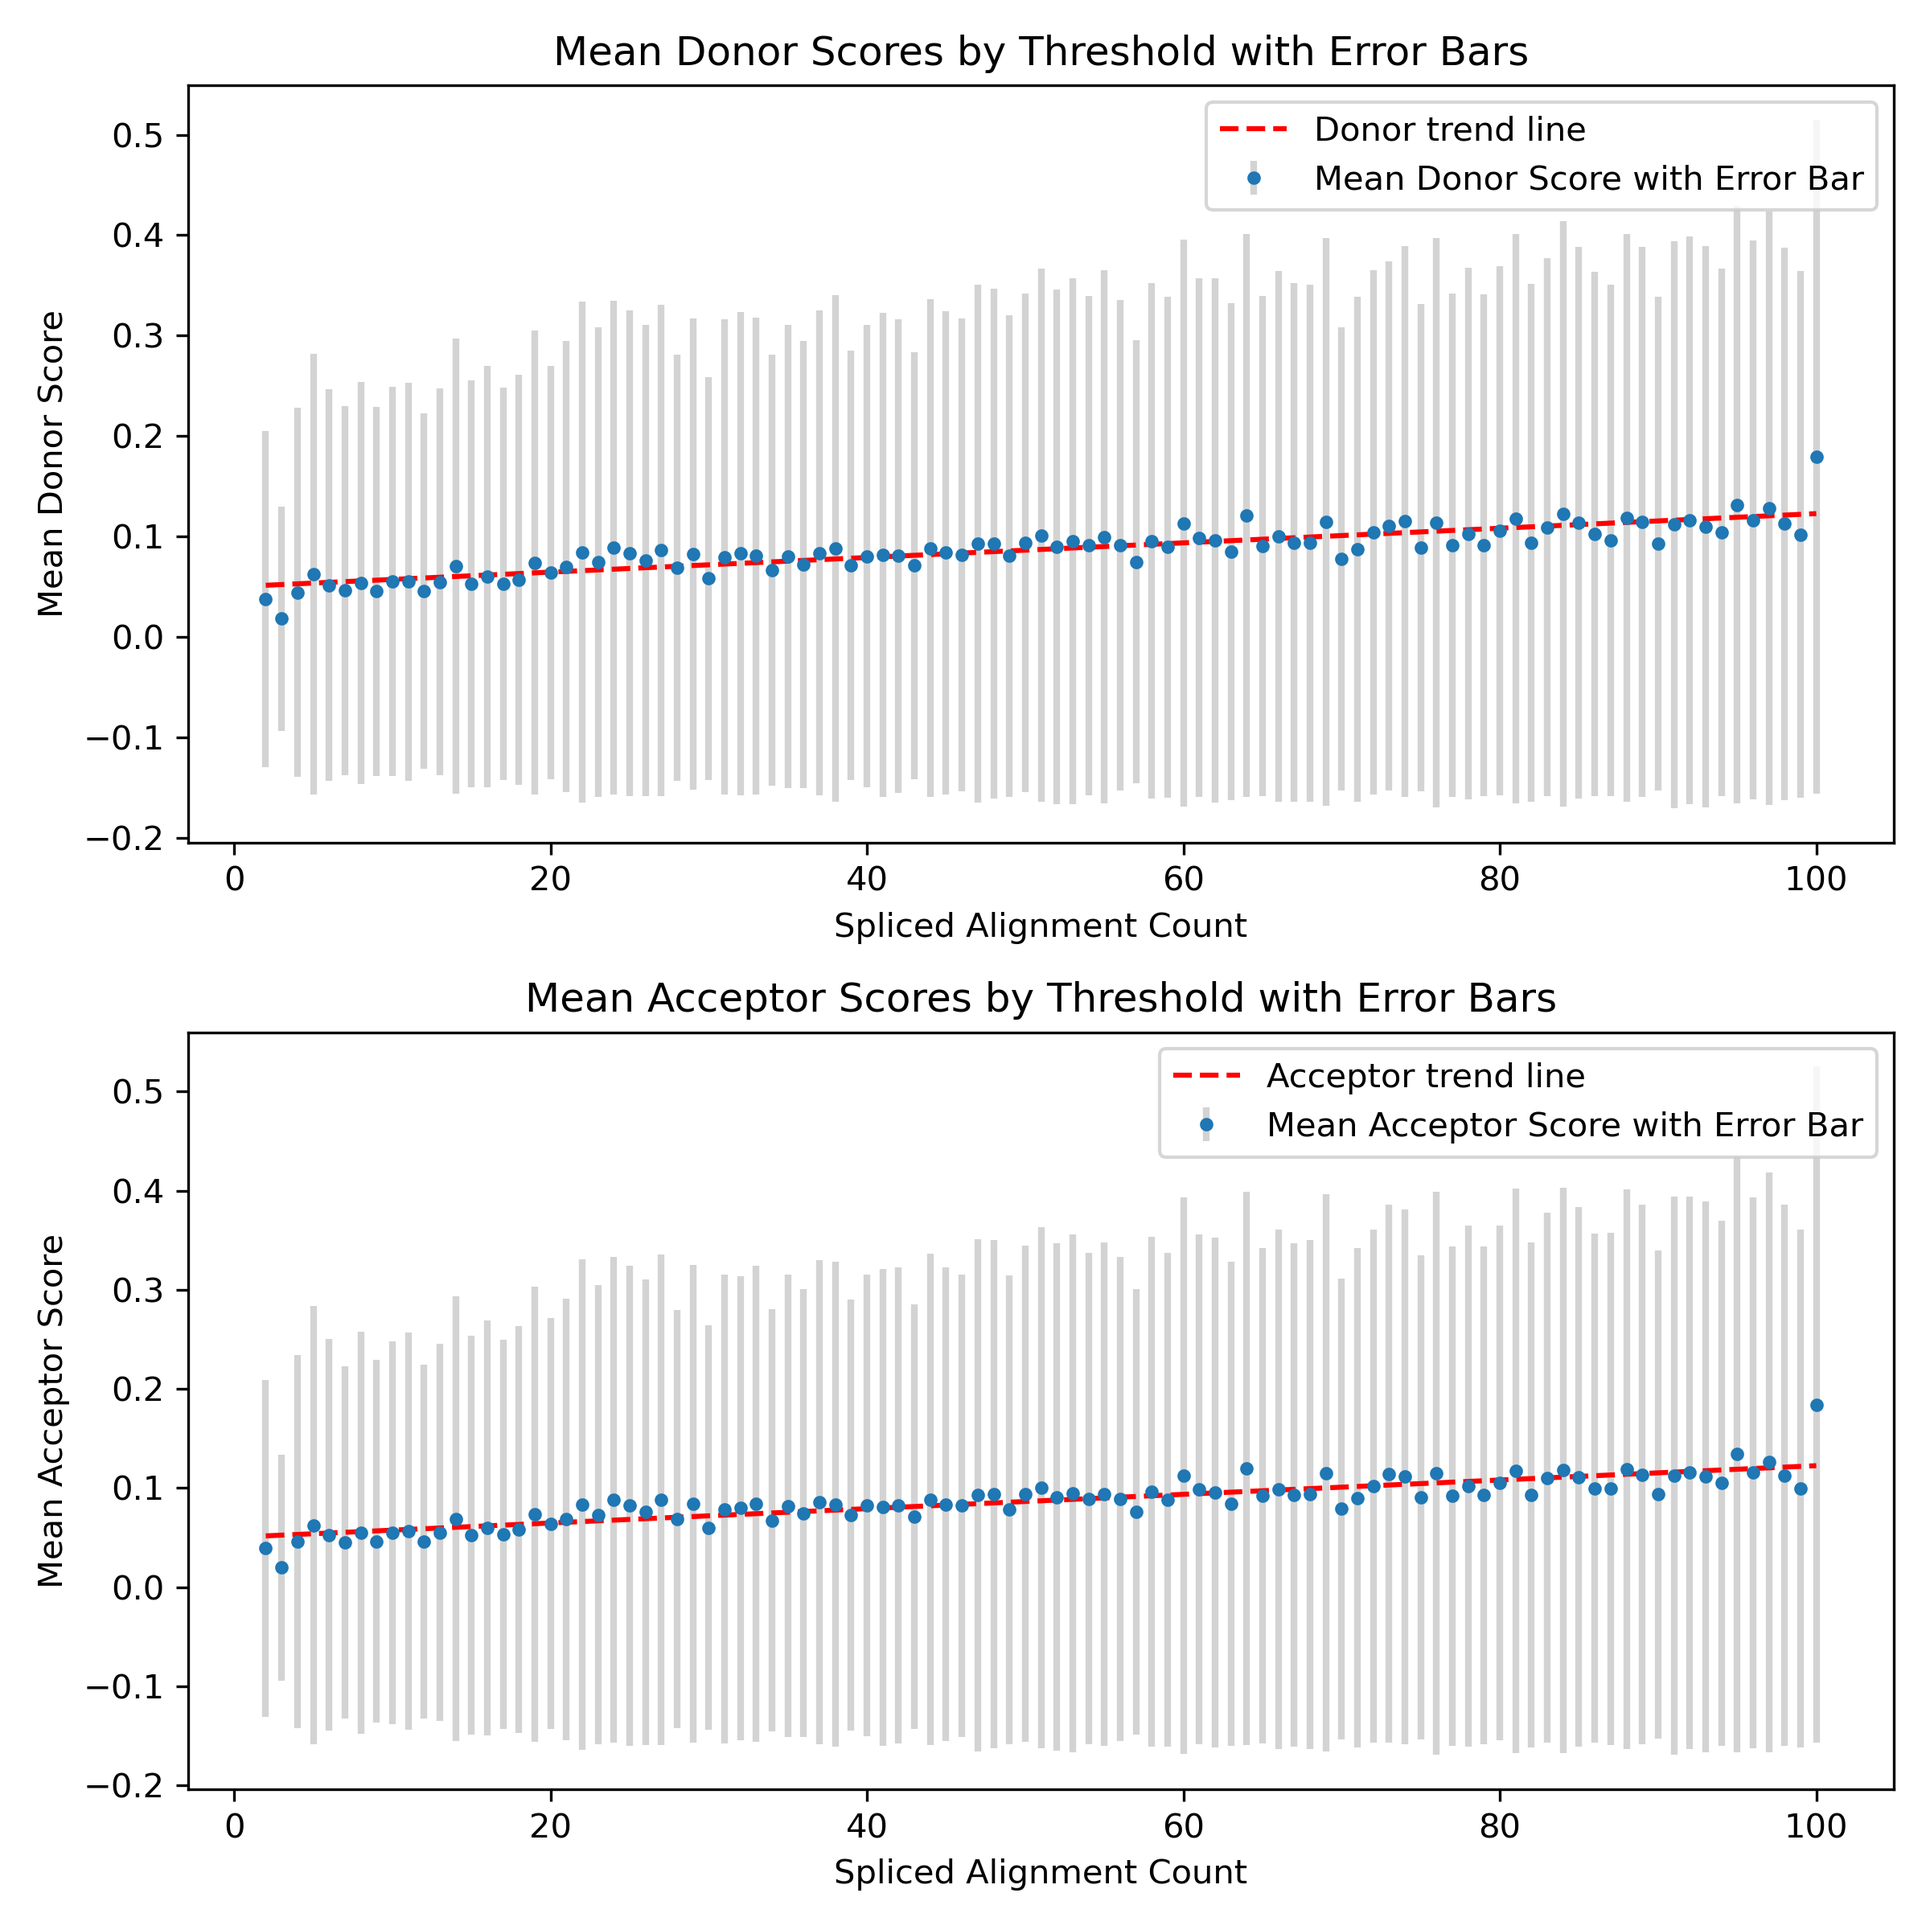
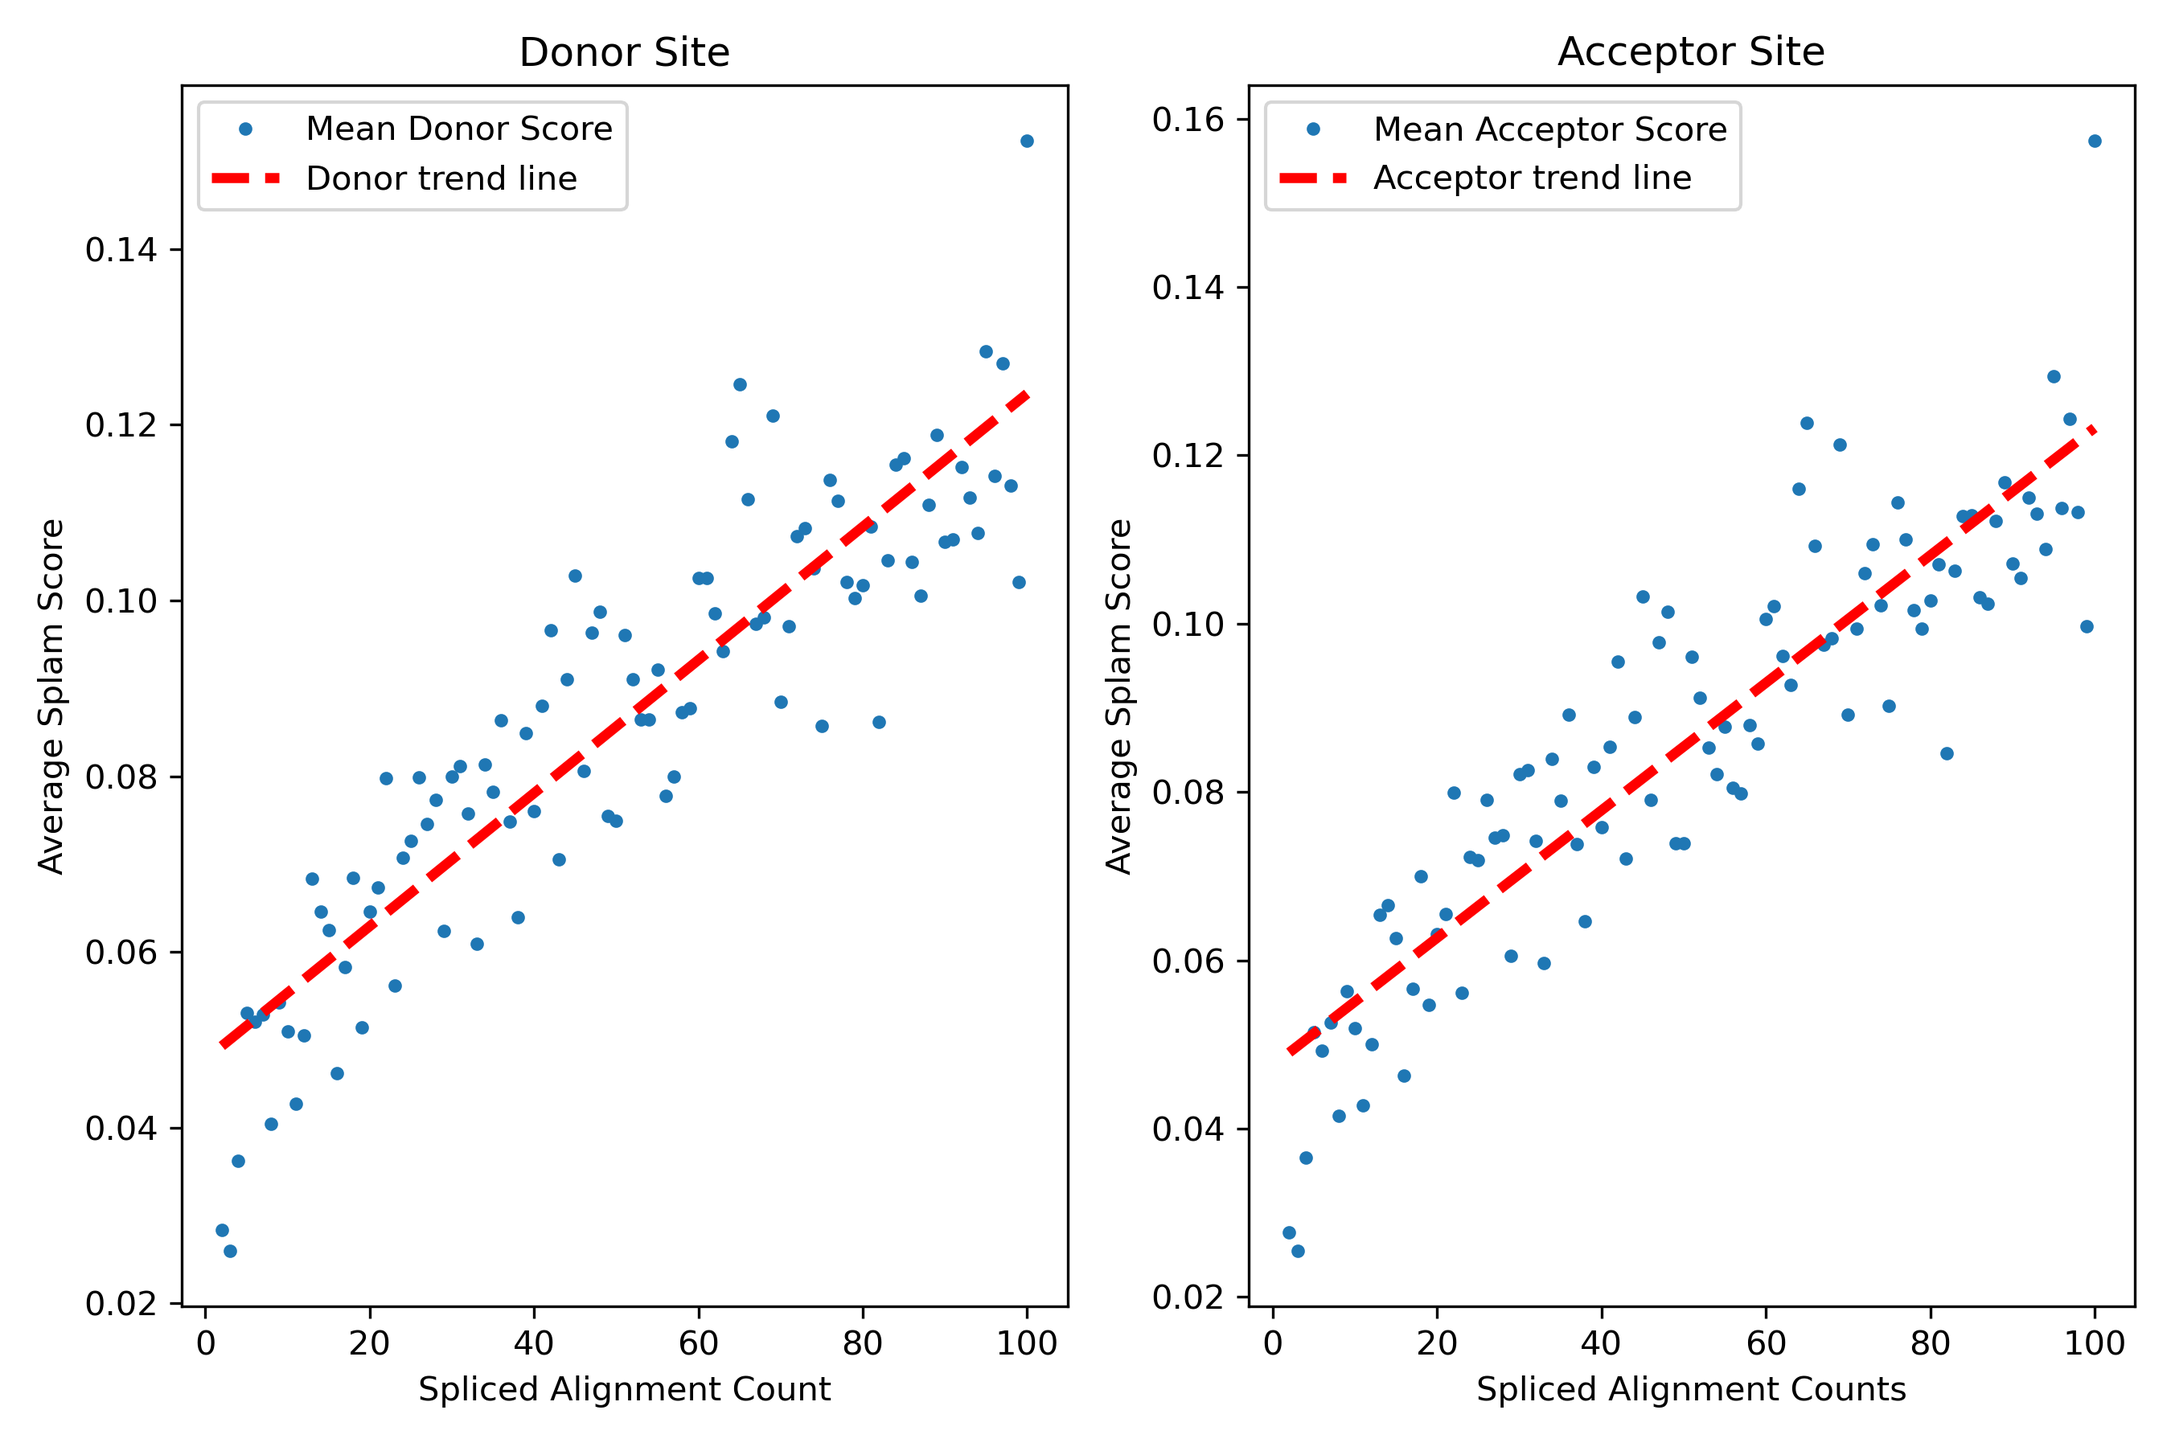
Update figures/figure_negatives_vis/

diff --git a/figures/figure_negatives_vis/viz_scores_cross_all_negs.py b/figures/figure_negatives_vis/viz_scores_cross_all_negs.py
@@ -14,47 +14,49 @@ mean_scores_d = []
 std_devs_d = []
 
 
-# # Loop through each threshold to load data, and compute mean and standard deviation
-# fig, axes = plt.subplots(2, 1, figsize=(8, 8))  # Adjusting the size for better visibility
-# for threshold in thresholds_list:
-#     neg_pred_file = f'/ccb/cybertron/khchao/splam-analysis-results/src_tools_evaluation/splam_result/RELEASED/neg_{threshold}/LOG/_junction_score.bed'
-#     df = pd.read_csv(neg_pred_file, sep="\t", header=None, names=["chr", "start", "end", "junction", "unknown", "strand", "donor_score", "acceptor_score"])
-#     df = df.sample(n=600)
-#     # Assuming you're interested in donor_score; replace with acceptor_score if necessary
-#     filtered_scores_a = df['acceptor_score'][:600]
-#     mean_scores_a.append(filtered_scores_a.mean())
-#     std_devs_a.append(filtered_scores_a.std())
+# Loop through each threshold to load data, and compute mean and standard deviation
+fig, axes = plt.subplots(1, 2, figsize=(9, 6))  # Adjusting the size for better visibility
+for threshold in thresholds_list:
+    neg_pred_file = f'/ccb/cybertron/khchao/splam-analysis-results/src_tools_evaluation/splam_result/RELEASED/neg_{threshold}/LOG/_junction_score.bed'
+    df = pd.read_csv(neg_pred_file, sep="\t", header=None, names=["chr", "start", "end", "junction", "unknown", "strand", "donor_score", "acceptor_score"])
+    df = df.sample(n=600)
+    # Assuming you're interested in donor_score; replace with acceptor_score if necessary
+    filtered_scores_a = df['acceptor_score'][:600]
+    mean_scores_a.append(filtered_scores_a.mean())
+    std_devs_a.append(filtered_scores_a.std())
 
-#     filtered_scores_d = df['donor_score'][:600]
-#     mean_scores_d.append(filtered_scores_d.mean())
-#     std_devs_d.append(filtered_scores_d.std())
+    filtered_scores_d = df['donor_score'][:600]
+    mean_scores_d.append(filtered_scores_d.mean())
+    std_devs_d.append(filtered_scores_d.std())
 
-# axes[0].set_title('Mean Donor Scores by Threshold with Error Bars')
-# axes[0].set_xlabel('Spliced Alignment Count')
-# axes[0].set_ylabel('Mean Donor Score')
+axes[0].set_title('Donor Site')
+axes[0].set_xlabel('Spliced Alignment Count')
+axes[0].set_ylabel('Average Splam Score')
 # axes[0].errorbar(thresholds_list, mean_scores_d, yerr=std_devs_d, fmt='o', ecolor='lightgray', elinewidth=2, capsize=0, label='Mean Donor Score with Error Bar', markersize = 3)
-# # Calculating the trend line
-# z = np.polyfit(thresholds_list, mean_scores_d, 1)  # Fit a 1st degree polynomial to the data
-# p = np.poly1d(z)  # Create the polynomial equation based on the fit
-# # Plotting the trend line
-# axes[0].plot(thresholds_list, p(thresholds_list), "r--", label='Donor trend line')  # "r--" makes the line red and dashed
-# axes[0].legend()
+axes[0].plot(thresholds_list, mean_scores_d, 'o', label='Mean Donor Score', markersize = 3)
+# Calculating the trend line
+z = np.polyfit(thresholds_list, mean_scores_d, 1)  # Fit a 1st degree polynomial to the data
+p = np.poly1d(z)  # Create the polynomial equation based on the fit
+# Plotting the trend line
+axes[0].plot(thresholds_list, p(thresholds_list), "r--", label='Donor trend line', linewidth=3.0)  # "r--" makes the line red and dashed
+axes[0].legend()
 
-# axes[1].set_title('Mean Acceptor Scores by Threshold with Error Bars')
-# axes[1].set_xlabel('Spliced Alignment Counts')
-# axes[1].set_ylabel('Mean Acceptor Score')
+axes[1].set_title('Acceptor Site')
+axes[1].set_xlabel('Spliced Alignment Counts')
+axes[1].set_ylabel('Average Splam Score')
 # axes[1].errorbar(thresholds_list, mean_scores_a, yerr=std_devs_a, fmt='o', ecolor='lightgray', elinewidth=2, capsize=0, label='Mean Acceptor Score with Error Bar', markersize = 3)
-# # Calculating the trend line
-# z = np.polyfit(thresholds_list, mean_scores_a, 1)  # Fit a 1st degree polynomial to the data
-# p = np.poly1d(z)  # Create the polynomial equation based on the fit
-# # Plotting the trend line
-# axes[1].plot(thresholds_list, p(thresholds_list), "r--", label='Acceptor trend line')  # "r--" makes the 
-# axes[1].legend()
+axes[1].plot(thresholds_list, mean_scores_a, 'o', label='Mean Acceptor Score', markersize = 3)
+# Calculating the trend line
+z = np.polyfit(thresholds_list, mean_scores_a, 1)  # Fit a 1st degree polynomial to the data
+p = np.poly1d(z)  # Create the polynomial equation based on the fit
+# Plotting the trend line
+axes[1].plot(thresholds_list, p(thresholds_list), "r--", label='Acceptor trend line', linewidth=3.0)  # "r--" makes the 
+axes[1].legend()
 
-# plt.legend()
-# plt.tight_layout()
-# plt.savefig('thresholds.png', dpi=300)
-# plt.clf()
+plt.legend()
+plt.tight_layout()
+plt.savefig('thresholds.png', dpi=300)
+plt.clf()
 
 
 
@@ -74,28 +76,33 @@ for threshold in thresholds_list:
     print(f'{threshold}; filtered_score_d: {filtered_score_d}')
     print(f'{threshold}; filtered_score_a: {filtered_score_a}')
 
-fig, axes = plt.subplots(1, 2, figsize=(16, 4))  # Adjusting the size for better visibility
+# fig, axes = plt.subplots(1, 2, figsize=(16, 4))  # Adjusting the size for better visibility
+fig, axes = plt.subplots(1, 2, figsize=(9, 6))  # Adjusting the size for better visibility
 
-axes[0].set_title(f'Ratio of Splice Junctions with Donor Scores above Threshold {selected_threshold}')
-axes[0].scatter(thresholds_list, filtered_scores_d)
+axes[0].set_title(f'Donor Site')
+# axes[0].scatter(thresholds_list, filtered_scores_d)
+axes[0].plot(thresholds_list, filtered_scores_d, 'o', label='Ratio of Good Donor Site', markersize = 3)
+
 # Calculating the trend line
 z = np.polyfit(thresholds_list, filtered_scores_d, 1)  # Fit a 1st degree polynomial to the data
 p = np.poly1d(z)  # Create the polynomial equation based on the fit
 # Plotting the trend line
 axes[0].plot(thresholds_list, p(thresholds_list), "r--", label='Donor trend line', linewidth=3.0)  # "r--" makes the 
 axes[0].set_xlabel('Spliced Alignment Count')
-axes[0].set_ylabel('Ratio of Splice Junctions')
+axes[0].set_ylabel(f'Ratio of Splice Junctions with Splam Scores above Threshold {selected_threshold}')
 axes[0].legend()
 
-axes[1].set_title(f'Ratio of Splice Junctions with Acceptor Scores above Threshold {selected_threshold}')
-axes[1].scatter(thresholds_list, filtered_scores_a)
+axes[1].set_title(f'Acceptor Site')
+# axes[1].scatter(thresholds_list, filtered_scores_a)
+axes[1].plot(thresholds_list, filtered_scores_a, 'o', label='Ratio of Good Acceptor Site', markersize = 3)
+
 # Calculating the trend line
 z = np.polyfit(thresholds_list, filtered_scores_a, 1)  # Fit a 1st degree polynomial to the data
 p = np.poly1d(z)  # Create the polynomial equation based on the fit
 # Plotting the trend line
 axes[1].plot(thresholds_list, p(thresholds_list), "r--", label='Acceptor trend line', linewidth=3.0)  # "r--" makes the 
 axes[1].set_xlabel('Spliced Alignment Count')
-axes[1].set_ylabel('Ratio of Splice Junctions')
+axes[1].set_ylabel(f'Ratio of Splice Junctions with Splam Scores above Threshold {selected_threshold}')
 axes[1].legend()
 
 plt.tight_layout()
